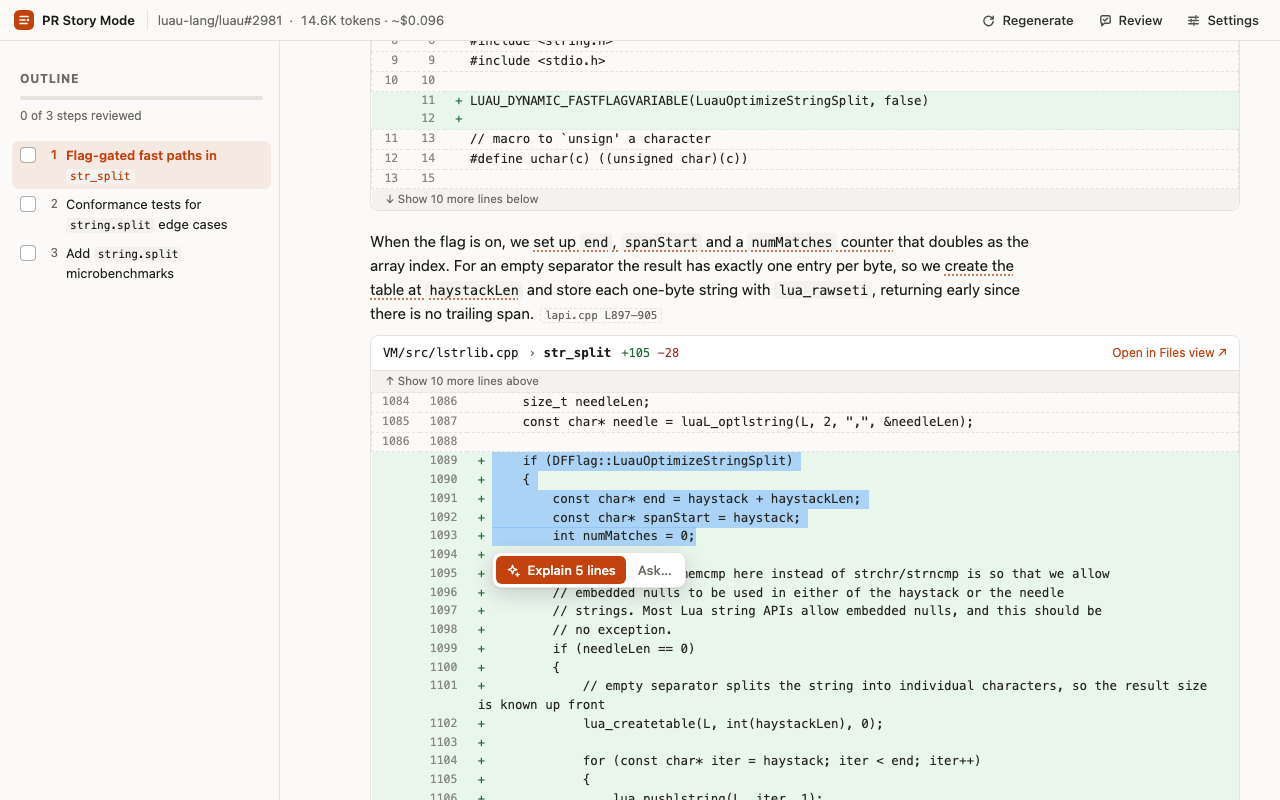
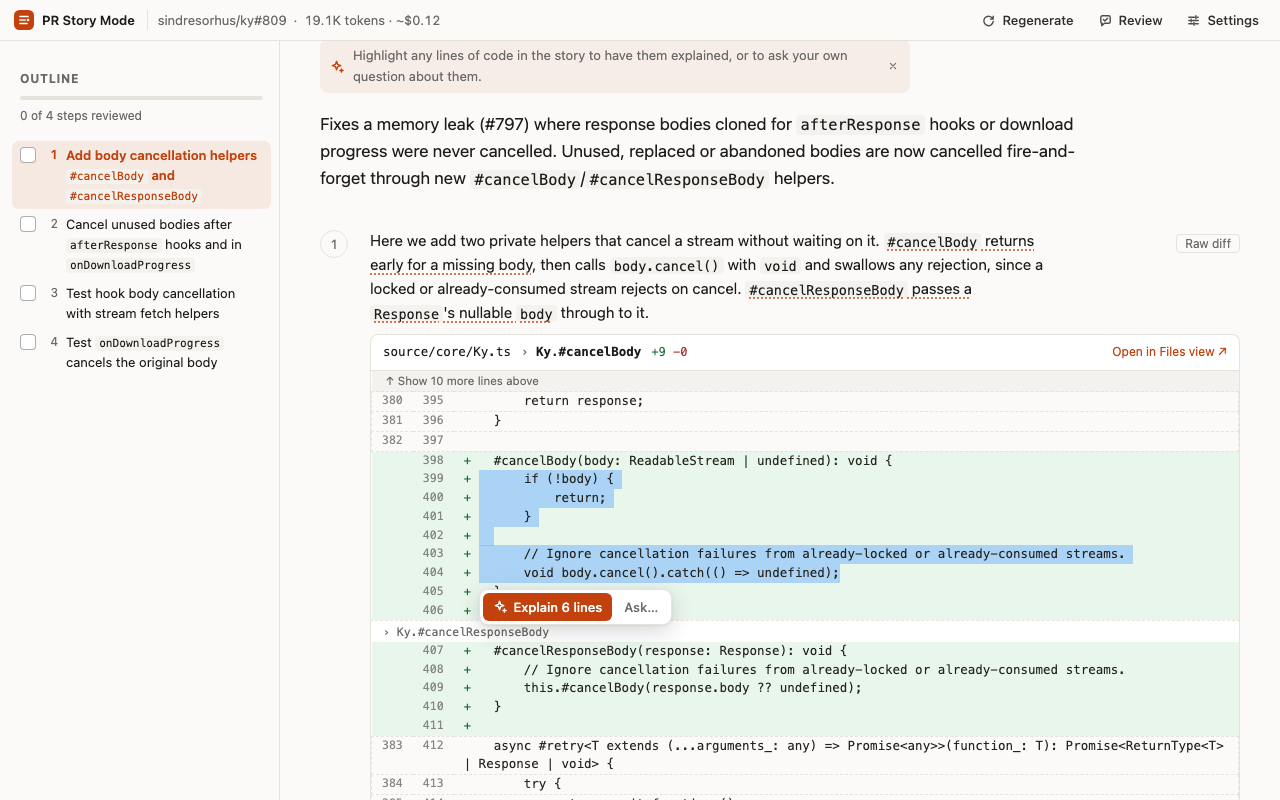
Retake store screenshots on sindresorhus/ky#809
Screenshots 1-3 and the GitHub social preview now show a story for
ky #809 instead of luau #2981. STORE.md names the new pull request.

diff --git a/packages/extension/store/STORE.md b/packages/extension/store/STORE.md
@@ -51,14 +51,14 @@ Open source under the MIT license: https://github.com/egbenedict/pr-story-mode
 |---|---|---|
 | Store icon | `../icons/icon-128.png` (also inside the zip) | 128×128 |
 | Screenshot 1 | `screenshot-1.png`: summary, outline and the first step | 1280×800 |
-| Screenshot 2 | `screenshot-2.png`: lines selected, with the "Explain 5 lines" / "Ask…" bar | 1280×800 |
+| Screenshot 2 | `screenshot-2.png`: lines selected, with the "Explain 6 lines" / "Ask…" bar | 1280×800 |
 | Screenshot 3 | `screenshot-3.png`: dark theme, re-indented lines folded | 1280×800 |
 | Screenshot 4 | `screenshot-4.png`: model settings (Anthropic, OpenAI, gateway, none) | 1280×800 |
 | Screenshot 5 | `screenshot-5.png`: appearance settings with live preview | 1280×800 |
 | Small promo tile | `promo-small.png` (source: `promo.html`) | 440×280 |
 | GitHub social preview (not for the store) | `social-preview.png` (source: `social.html`); upload it in the repo's Settings → Social preview | 1280×640 |
 
-All are PNGs without transparency, as the store requires. The screenshots show a real story for [luau-lang/luau#2981](https://github.com/luau-lang/luau/pull/2981), written by Claude Opus 5.5 and loaded from the reader's cache.
+All are PNGs without transparency, as the store requires. The screenshots show a real story for [sindresorhus/ky#809](https://github.com/sindresorhus/ky/pull/809), written by Claude Opus 5.5 and loaded from the reader's cache.
 
 **Links:**
 - Homepage URL: https://github.com/egbenedict/pr-story-mode
